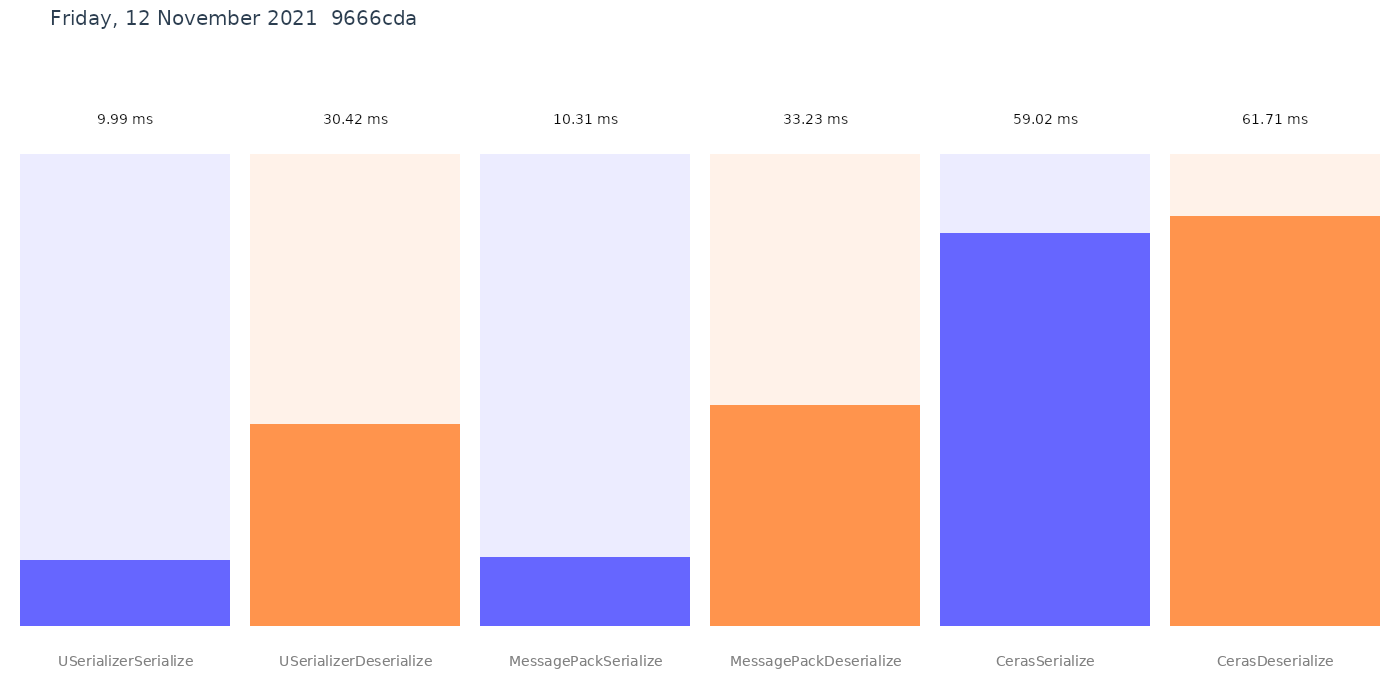
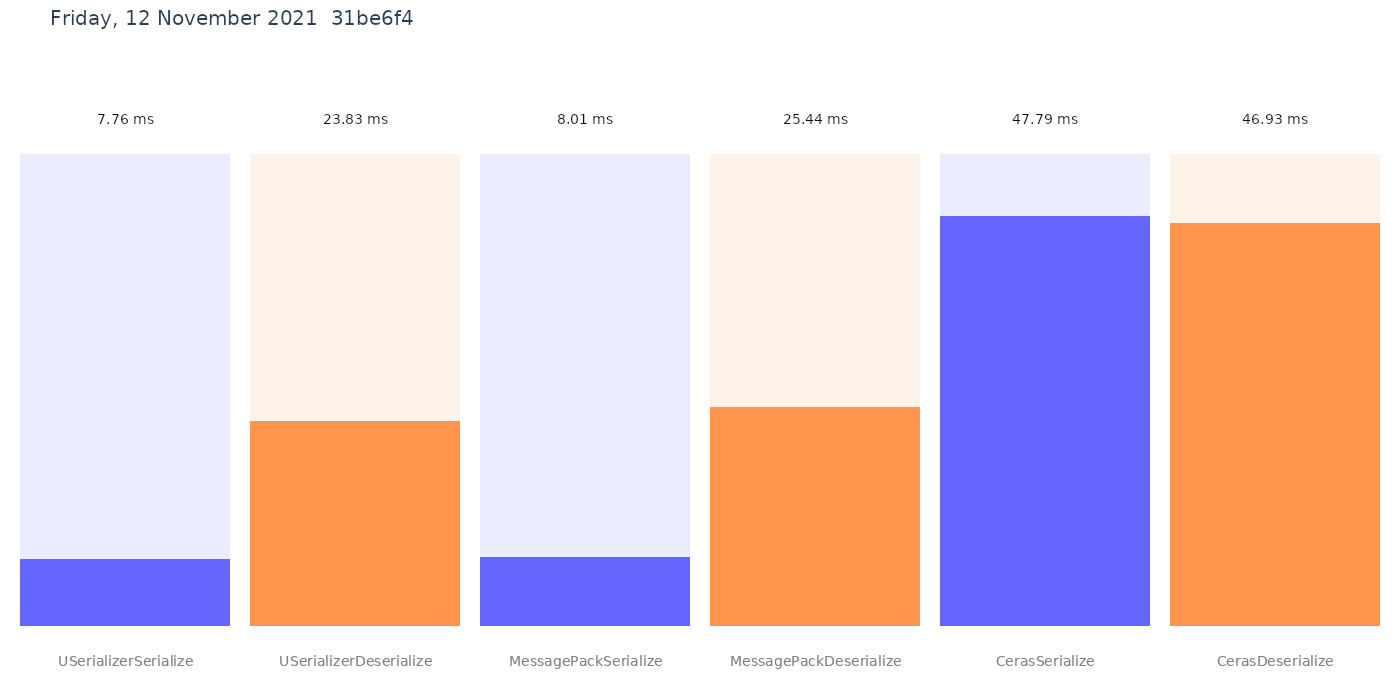
deploy: 31be6f4ca67909fb29f1d0e6043516d2418f1d2a

diff --git a/performance.md b/performance.md
@@ -1,7 +1,7 @@
 ``` ini
 
 BenchmarkDotNet=v0.12.1, OS=ubuntu 20.04
-Intel Xeon CPU E5-2673 v4 2.30GHz, 1 CPU, 2 logical and 2 physical cores
+Intel Xeon Platinum 8272CL CPU 2.60GHz, 1 CPU, 2 logical and 2 physical cores
 .NET Core SDK=5.0.403
   [Host]   : .NET Core 5.0.12 (CoreCLR 5.0.1221.52207, CoreFX 5.0.1221.52207), X64 RyuJIT
   ShortRun : .NET Core 5.0.12 (CoreCLR 5.0.1221.52207, CoreFX 5.0.1221.52207), X64 RyuJIT
@@ -12,9 +12,9 @@ WarmupCount=3
 ```
 |                 Method |      Mean |     Error |    StdDev |
 |----------------------- |----------:|----------:|----------:|
-|   USerializerSerialize |  9.994 ms |  2.355 ms | 0.1291 ms |
-| USerializerDeserialize | 30.417 ms |  5.217 ms | 0.2860 ms |
-|   MessagePackSerialize | 10.305 ms | 13.430 ms | 0.7362 ms |
-| MessagePackDeserialize | 33.234 ms | 19.560 ms | 1.0722 ms |
-|         CerasSerialize | 59.015 ms | 25.715 ms | 1.4095 ms |
-|       CerasDeserialize | 61.708 ms | 28.058 ms | 1.5379 ms |
+|   USerializerSerialize |  7.763 ms | 0.0229 ms | 0.0013 ms |
+| USerializerDeserialize | 23.831 ms | 3.4240 ms | 0.1877 ms |
+|   MessagePackSerialize |  8.013 ms | 0.0488 ms | 0.0027 ms |
+| MessagePackDeserialize | 25.441 ms | 2.1308 ms | 0.1168 ms |
+|         CerasSerialize | 47.786 ms | 1.4233 ms | 0.0780 ms |
+|       CerasDeserialize | 46.929 ms | 2.0167 ms | 0.1105 ms |
